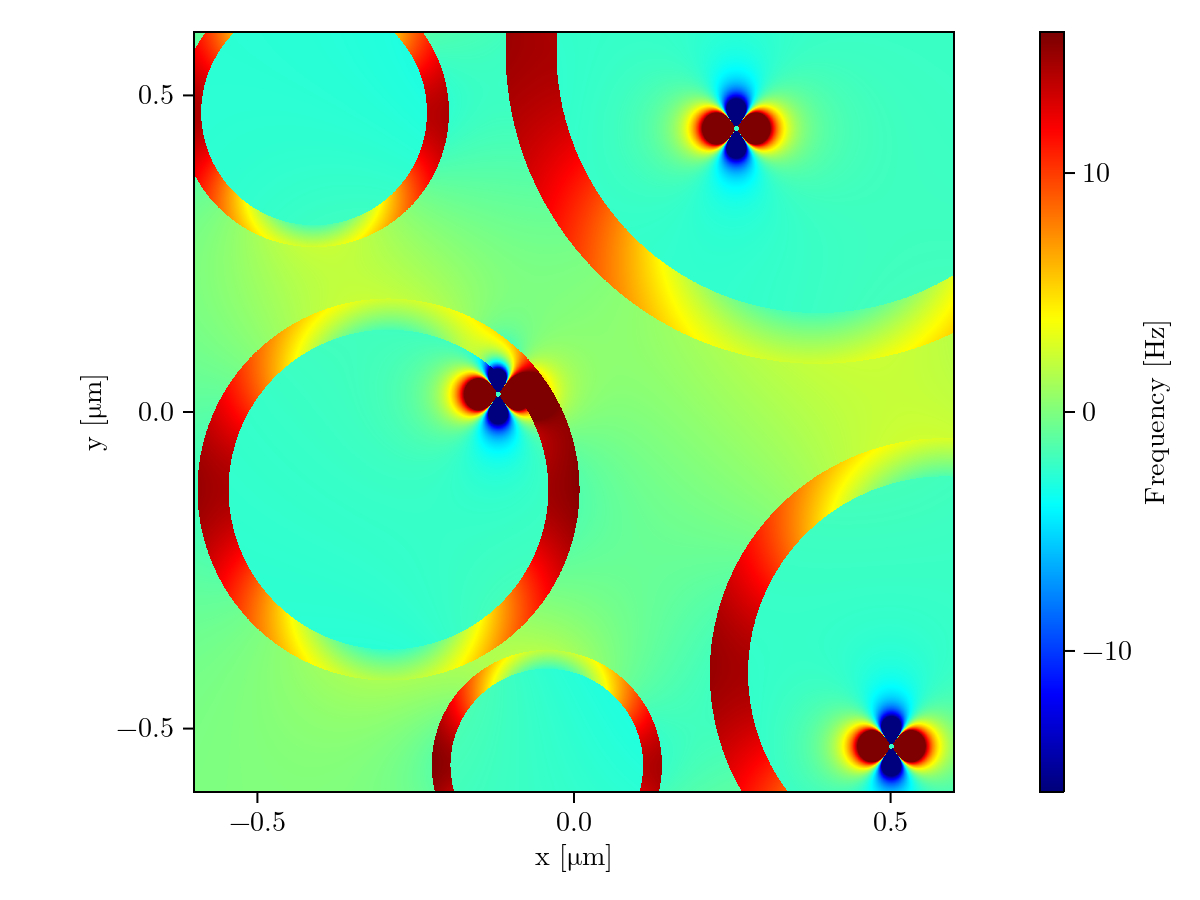
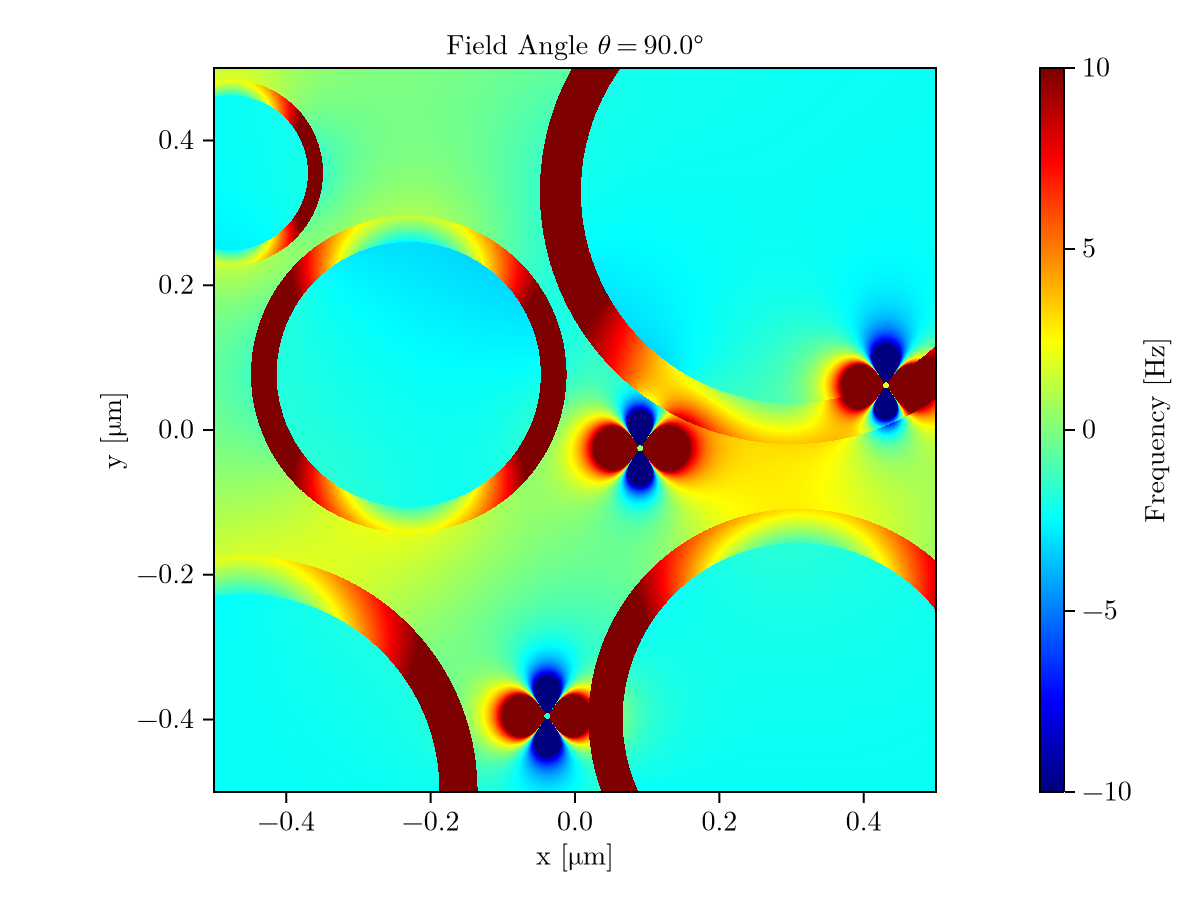
update readme, some renaming

diff --git a/README.md b/README.md
@@ -1,13 +1,35 @@
-# myelinfields
+# simulatedfields
 
-Example code to simulate magnetic field perturbations generated by myelinated axons and ferritin in a constant magnetic field.
+Example code to simulate magnetic field perturbations generated by structures within a constant external magnetic field.
 
-![Magnetic field perturbations generated by five myelinated axons and three ferritin.](examples/plot.png)
+Currently supported structures:
+- Cylindrical vessels (infinite cylinders)
+- Myelinated axons (concentric infinite cylinders)
+- Ferritin (solid sphere)
 
-# References
+## Examples
+
+See `examples/examples.jl`.
+
+```julia
+julia> Random.seed!(3)
+julia> myelin_plot(; width = 1.0, theta = 90.0, nmyelin = 5, nferritin = 3, save = false)
+```
+
+![Magnetic field perturbations generated by five myelinated axons and three ferritin.](examples/output/myelin_fields.png)
+
+```julia
+julia> vessel_plot(; width = 1.0, theta = 90.0, radius = 0.1, save = false)
+```
+
+![Magnetic field perturbations generated by a single venous blood vessel.](examples/output/vessel_field.png)
+
+## References
 
 1. Kor D, Birkl C, Ropele S, Doucette J, et al. The role of iron and myelin in orientation dependent R2* of white matter. NMR in Biomedicine 2019; 32: e4092.
 2. Wharton S, Bowtell R. Fiber orientation-dependent white matter contrast in gradient echo MRI. Proc Natl Acad Sci U S A 2012; 109: 18559–18564.
 3. Xu T, Foxley S, Kleinnijenhuis M, et al. The effect of realistic geometries on the susceptibility-weighted MR signal in white matter. Magnetic Resonance in Medicine 2018; 79: 489–500.
 4. Harrison PM, Arosio P. The ferritins: molecular properties, iron storage function and cellular regulation. Biochimica et Biophysica Acta (BBA) - Bioenergetics 1996; 1275: 161–203.
 5. Schenck JF. Magnetic resonance imaging of brain iron. Journal of the Neurological Sciences 2003; 207: 99–102.
+6. Deistung A, Rauscher A, Sedlacik J, et al. Susceptibility weighted imaging at ultra high magnetic field strengths: Theoretical considerations and experimental results. Magn Reson Med 2008; 60: 1155–1168.
+7. Cheng Y-CN, Neelavalli J, Haacke EM. Limitations of Calculating Field Distributions and Magnetic Susceptibilities in MRI using a Fourier Based Method. Phys Med Biol 2009; 54: 1169–1189.
